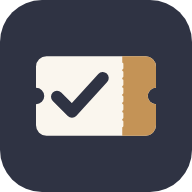
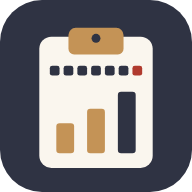
新圖示：回報板＋一週七格＋統計長條，與活動登記區別
Claude-Session: https://claude.ai/code/session_017WG6iS4vDNPDNnhFoFTVXA

diff --git a/sw.js b/sw.js
@@ -1,6 +1,6 @@
 // 安裝到手機桌面用的 Service Worker。
 // 一律先抓網路上的最新版，抓不到（離線）才用上次存下來的，所以更新網頁後不會卡在舊版。
-const CACHE = 'report-v1';
+const CACHE = 'report-v2';
 const ASSETS = ['./', './index.html', './manifest.webmanifest', './icons/icon-192.png', './icons/icon-512.png', './icons/icon.svg', './img/in-christ.svg'];
 
 self.addEventListener('install', e => {
